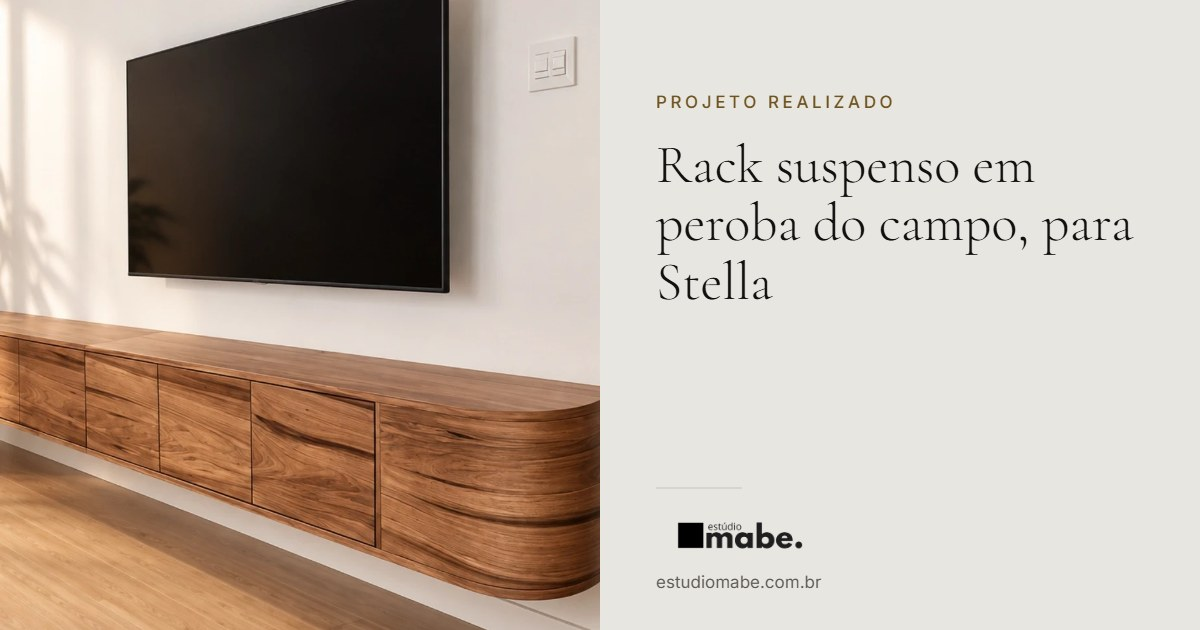
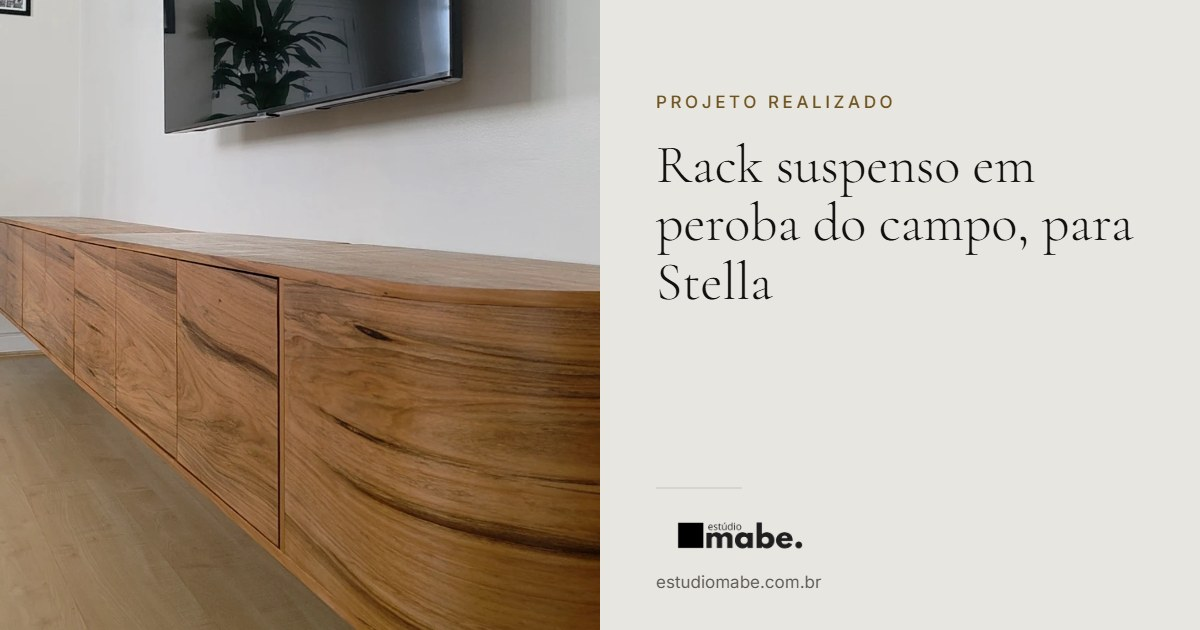
Tres fotos reais no projeto da Stella, e nova ordem
O rack do Jardim Botanico passa de uma para quatro fotos. A ordem mudou:
a capa agora e a foto real da curva vista de perto, com o veio contornando
a dobra; depois vem o dedo abrindo a porta com ela ja entreaberta, a sala
inteira, e por ultimo a imagem editada.

Motivo da troca de capa: lado a lado, a peroba real e um mel amarelado
com veios escuros, enquanto na imagem editada ela aparece mais escura e
avermelhada, puxando para nogueira. A capa e o cartao de compartilhamento
sao a referencia que o proximo cliente usa para pedir uma peca igual, e
por isso passam a ser a foto sem edicao.

Fica pendente de decisao do Mateus tirar a imagem editada da galeria:
mostrar a mesma peca em duas cores confunde, mas a imagem e dele.

A foto do toque e a aquisicao mais util: "portas sem puxador com abertura
ao toque" e uma frase que ninguem visualiza, e a foto resolve.

As fotos novas tem 1080x1920 e foram reduzidas para 924 px, nao ampliadas.
Cartao regerado a partir da capa nova e 22 paginas de compartilhamento
atualizadas.

recortar-foto.html passa a aceitar o arquivo de origem pelo endereco
(?de=_foto1.jpg), para dar conta de projetos com varias fotos sem renomear
arquivo a cada passada.

Conferido em 375 px, sem rolagem horizontal. JavaScript, CSS e dados
estruturados validos, console limpo.

diff --git a/recortar-foto.html b/recortar-foto.html
@@ -12,10 +12,14 @@
   4. confira a moldura amarela na miniatura e o resultado ao lado
 
   Parametros do endereco (todos opcionais, em fracao da imagem):
+     de    arquivo de origem na raiz          (padrao: _entrada.jpg)
      nome  nome do arquivo final, sem extensao (precisa comecar com trabalho-)
      x     canto esquerdo do recorte          (0 = colado na esquerda)
      y     topo do recorte                    (0 = colado no topo)
      l     largura do recorte                 (1 = largura inteira)
+
+  Com varias fotos do mesmo projeto, use "de" e "nome" juntos:
+     ?de=_foto1.jpg&nome=trabalho-ALGO-1&y=0.28
 -->
 <style>
   body { font-family: system-ui, sans-serif; background: #222; color: #eee; padding: 20px; }
@@ -28,7 +32,7 @@
 </style>
 <div id="log">carregando…</div>
 <div class="lado">
-  <div id="guia"><img id="fonte" src="/_entrada.jpg" alt=""><div id="moldura"></div></div>
+  <div id="guia"><img id="fonte" alt=""><div id="moldura"></div></div>
   <canvas id="saida"></canvas>
 </div>
 
@@ -40,6 +44,7 @@ const CAIXA = {
   largura: parseFloat(p.get('l') ?? '1')
 };
 const DESTINO = (p.get('nome') || 'trabalho-sem-nome-1') + '.webp';
+const ORIGEM = p.get('de') || '_entrada.jpg';
 const LARG = 924, ALT = 1155;
 
 const L = document.getElementById('log');
@@ -77,5 +82,6 @@ img.onload = async () => {
   const r = await fetch('/salvar', { method: 'POST', body: JSON.stringify({ nome: DESTINO, dados }) });
   diz((r.ok ? 'ok    ' : 'FALHA ') + DESTINO + '   ' + LARG + 'x' + ALT + '   ' + Math.round(dados.length * 0.75 / 1024) + ' kB');
 };
-img.onerror = () => diz('ERRO: nao achei /_entrada.jpg na raiz do projeto');
+img.onerror = () => diz('ERRO: nao achei /' + ORIGEM + ' na raiz do projeto');
+img.src = '/' + ORIGEM;
 </script>

diff --git a/en/peca/casa-dada/index.html b/en/peca/casa-dada/index.html
@@ -3170,7 +3170,10 @@ const trabalhos = [
     servico: 'Rack suspenso em folhas naturais de peroba do campo, com acabamento em cera de abelha, portas com abertura ao toque e extremidade curva',
     descricao: 'Um móvel que toca o chão divide a sala em duas. Este não toca: fica suspenso na parede, e o piso corre inteiro por baixo dele, sem interrupção. As folhas são de peroba do campo, naturais, escolhidas para que o desenho da madeira atravesse as portas sem emenda à vista, como se a peça tivesse saído de um bloco só. Não há puxador em lugar nenhum: a porta abre ao toque, e nada quebra a superfície. O acabamento é em cera de abelha, que não forma película por cima da madeira: a mão encosta e encontra o próprio material, com a maciez que só a cera deixa. E onde a maioria dos racks termina numa quina, este faz uma curva e segue a parede, abraçando o ambiente em vez de cortá-lo.',
     data: '2026-09-12',
-    imgs: ['/images/trabalho-rack-peroba-jardim-botanico-1.webp']
+    imgs: ['/images/trabalho-rack-peroba-jardim-botanico-1.webp',
+           '/images/trabalho-rack-peroba-jardim-botanico-2.webp',
+           '/images/trabalho-rack-peroba-jardim-botanico-3.webp',
+           '/images/trabalho-rack-peroba-jardim-botanico-4.webp']
   },
   {
     slug: 'cama-tauari-gavea',

diff --git a/en/peca/mesa-de-cabeceira-botafogo/index.html b/en/peca/mesa-de-cabeceira-botafogo/index.html
@@ -3170,7 +3170,10 @@ const trabalhos = [
     servico: 'Rack suspenso em folhas naturais de peroba do campo, com acabamento em cera de abelha, portas com abertura ao toque e extremidade curva',
     descricao: 'Um móvel que toca o chão divide a sala em duas. Este não toca: fica suspenso na parede, e o piso corre inteiro por baixo dele, sem interrupção. As folhas são de peroba do campo, naturais, escolhidas para que o desenho da madeira atravesse as portas sem emenda à vista, como se a peça tivesse saído de um bloco só. Não há puxador em lugar nenhum: a porta abre ao toque, e nada quebra a superfície. O acabamento é em cera de abelha, que não forma película por cima da madeira: a mão encosta e encontra o próprio material, com a maciez que só a cera deixa. E onde a maioria dos racks termina numa quina, este faz uma curva e segue a parede, abraçando o ambiente em vez de cortá-lo.',
     data: '2026-09-12',
-    imgs: ['/images/trabalho-rack-peroba-jardim-botanico-1.webp']
+    imgs: ['/images/trabalho-rack-peroba-jardim-botanico-1.webp',
+           '/images/trabalho-rack-peroba-jardim-botanico-2.webp',
+           '/images/trabalho-rack-peroba-jardim-botanico-3.webp',
+           '/images/trabalho-rack-peroba-jardim-botanico-4.webp']
   },
   {
     slug: 'cama-tauari-gavea',

diff --git a/en/peca/rack-urca/index.html b/en/peca/rack-urca/index.html
@@ -3170,7 +3170,10 @@ const trabalhos = [
     servico: 'Rack suspenso em folhas naturais de peroba do campo, com acabamento em cera de abelha, portas com abertura ao toque e extremidade curva',
     descricao: 'Um móvel que toca o chão divide a sala em duas. Este não toca: fica suspenso na parede, e o piso corre inteiro por baixo dele, sem interrupção. As folhas são de peroba do campo, naturais, escolhidas para que o desenho da madeira atravesse as portas sem emenda à vista, como se a peça tivesse saído de um bloco só. Não há puxador em lugar nenhum: a porta abre ao toque, e nada quebra a superfície. O acabamento é em cera de abelha, que não forma película por cima da madeira: a mão encosta e encontra o próprio material, com a maciez que só a cera deixa. E onde a maioria dos racks termina numa quina, este faz uma curva e segue a parede, abraçando o ambiente em vez de cortá-lo.',
     data: '2026-09-12',
-    imgs: ['/images/trabalho-rack-peroba-jardim-botanico-1.webp']
+    imgs: ['/images/trabalho-rack-peroba-jardim-botanico-1.webp',
+           '/images/trabalho-rack-peroba-jardim-botanico-2.webp',
+           '/images/trabalho-rack-peroba-jardim-botanico-3.webp',
+           '/images/trabalho-rack-peroba-jardim-botanico-4.webp']
   },
   {
     slug: 'cama-tauari-gavea',

diff --git a/en/projeto/banco-meditacao-seiza/index.html b/en/projeto/banco-meditacao-seiza/index.html
@@ -3170,7 +3170,10 @@ const trabalhos = [
     servico: 'Rack suspenso em folhas naturais de peroba do campo, com acabamento em cera de abelha, portas com abertura ao toque e extremidade curva',
     descricao: 'Um móvel que toca o chão divide a sala em duas. Este não toca: fica suspenso na parede, e o piso corre inteiro por baixo dele, sem interrupção. As folhas são de peroba do campo, naturais, escolhidas para que o desenho da madeira atravesse as portas sem emenda à vista, como se a peça tivesse saído de um bloco só. Não há puxador em lugar nenhum: a porta abre ao toque, e nada quebra a superfície. O acabamento é em cera de abelha, que não forma película por cima da madeira: a mão encosta e encontra o próprio material, com a maciez que só a cera deixa. E onde a maioria dos racks termina numa quina, este faz uma curva e segue a parede, abraçando o ambiente em vez de cortá-lo.',
     data: '2026-09-12',
-    imgs: ['/images/trabalho-rack-peroba-jardim-botanico-1.webp']
+    imgs: ['/images/trabalho-rack-peroba-jardim-botanico-1.webp',
+           '/images/trabalho-rack-peroba-jardim-botanico-2.webp',
+           '/images/trabalho-rack-peroba-jardim-botanico-3.webp',
+           '/images/trabalho-rack-peroba-jardim-botanico-4.webp']
   },
   {
     slug: 'cama-tauari-gavea',

diff --git a/en/projeto/cama-tauari-gavea/index.html b/en/projeto/cama-tauari-gavea/index.html
@@ -3170,7 +3170,10 @@ const trabalhos = [
     servico: 'Rack suspenso em folhas naturais de peroba do campo, com acabamento em cera de abelha, portas com abertura ao toque e extremidade curva',
     descricao: 'Um móvel que toca o chão divide a sala em duas. Este não toca: fica suspenso na parede, e o piso corre inteiro por baixo dele, sem interrupção. As folhas são de peroba do campo, naturais, escolhidas para que o desenho da madeira atravesse as portas sem emenda à vista, como se a peça tivesse saído de um bloco só. Não há puxador em lugar nenhum: a porta abre ao toque, e nada quebra a superfície. O acabamento é em cera de abelha, que não forma película por cima da madeira: a mão encosta e encontra o próprio material, com a maciez que só a cera deixa. E onde a maioria dos racks termina numa quina, este faz uma curva e segue a parede, abraçando o ambiente em vez de cortá-lo.',
     data: '2026-09-12',
-    imgs: ['/images/trabalho-rack-peroba-jardim-botanico-1.webp']
+    imgs: ['/images/trabalho-rack-peroba-jardim-botanico-1.webp',
+           '/images/trabalho-rack-peroba-jardim-botanico-2.webp',
+           '/images/trabalho-rack-peroba-jardim-botanico-3.webp',
+           '/images/trabalho-rack-peroba-jardim-botanico-4.webp']
   },
   {
     slug: 'cama-tauari-gavea',

diff --git a/en/projeto/gaveteiro-cedrinho-meia-cana/index.html b/en/projeto/gaveteiro-cedrinho-meia-cana/index.html
@@ -3170,7 +3170,10 @@ const trabalhos = [
     servico: 'Rack suspenso em folhas naturais de peroba do campo, com acabamento em cera de abelha, portas com abertura ao toque e extremidade curva',
     descricao: 'Um móvel que toca o chão divide a sala em duas. Este não toca: fica suspenso na parede, e o piso corre inteiro por baixo dele, sem interrupção. As folhas são de peroba do campo, naturais, escolhidas para que o desenho da madeira atravesse as portas sem emenda à vista, como se a peça tivesse saído de um bloco só. Não há puxador em lugar nenhum: a porta abre ao toque, e nada quebra a superfície. O acabamento é em cera de abelha, que não forma película por cima da madeira: a mão encosta e encontra o próprio material, com a maciez que só a cera deixa. E onde a maioria dos racks termina numa quina, este faz uma curva e segue a parede, abraçando o ambiente em vez de cortá-lo.',
     data: '2026-09-12',
-    imgs: ['/images/trabalho-rack-peroba-jardim-botanico-1.webp']
+    imgs: ['/images/trabalho-rack-peroba-jardim-botanico-1.webp',
+           '/images/trabalho-rack-peroba-jardim-botanico-2.webp',
+           '/images/trabalho-rack-peroba-jardim-botanico-3.webp',
+           '/images/trabalho-rack-peroba-jardim-botanico-4.webp']
   },
   {
     slug: 'cama-tauari-gavea',

diff --git a/en/projeto/mesa-cabeceira-tauari-palha/index.html b/en/projeto/mesa-cabeceira-tauari-palha/index.html
@@ -3170,7 +3170,10 @@ const trabalhos = [
     servico: 'Rack suspenso em folhas naturais de peroba do campo, com acabamento em cera de abelha, portas com abertura ao toque e extremidade curva',
     descricao: 'Um móvel que toca o chão divide a sala em duas. Este não toca: fica suspenso na parede, e o piso corre inteiro por baixo dele, sem interrupção. As folhas são de peroba do campo, naturais, escolhidas para que o desenho da madeira atravesse as portas sem emenda à vista, como se a peça tivesse saído de um bloco só. Não há puxador em lugar nenhum: a porta abre ao toque, e nada quebra a superfície. O acabamento é em cera de abelha, que não forma película por cima da madeira: a mão encosta e encontra o próprio material, com a maciez que só a cera deixa. E onde a maioria dos racks termina numa quina, este faz uma curva e segue a parede, abraçando o ambiente em vez de cortá-lo.',
     data: '2026-09-12',
-    imgs: ['/images/trabalho-rack-peroba-jardim-botanico-1.webp']
+    imgs: ['/images/trabalho-rack-peroba-jardim-botanico-1.webp',
+           '/images/trabalho-rack-peroba-jardim-botanico-2.webp',
+           '/images/trabalho-rack-peroba-jardim-botanico-3.webp',
+           '/images/trabalho-rack-peroba-jardim-botanico-4.webp']
   },
   {
     slug: 'cama-tauari-gavea',

diff --git a/en/projeto/mesa-cabeceira-tauari/index.html b/en/projeto/mesa-cabeceira-tauari/index.html
@@ -3170,7 +3170,10 @@ const trabalhos = [
     servico: 'Rack suspenso em folhas naturais de peroba do campo, com acabamento em cera de abelha, portas com abertura ao toque e extremidade curva',
     descricao: 'Um móvel que toca o chão divide a sala em duas. Este não toca: fica suspenso na parede, e o piso corre inteiro por baixo dele, sem interrupção. As folhas são de peroba do campo, naturais, escolhidas para que o desenho da madeira atravesse as portas sem emenda à vista, como se a peça tivesse saído de um bloco só. Não há puxador em lugar nenhum: a porta abre ao toque, e nada quebra a superfície. O acabamento é em cera de abelha, que não forma película por cima da madeira: a mão encosta e encontra o próprio material, com a maciez que só a cera deixa. E onde a maioria dos racks termina numa quina, este faz uma curva e segue a parede, abraçando o ambiente em vez de cortá-lo.',
     data: '2026-09-12',
-    imgs: ['/images/trabalho-rack-peroba-jardim-botanico-1.webp']
+    imgs: ['/images/trabalho-rack-peroba-jardim-botanico-1.webp',
+           '/images/trabalho-rack-peroba-jardim-botanico-2.webp',
+           '/images/trabalho-rack-peroba-jardim-botanico-3.webp',
+           '/images/trabalho-rack-peroba-jardim-botanico-4.webp']
   },
   {
     slug: 'cama-tauari-gavea',

diff --git a/en/projeto/mesa-estudio-musical-cumaru/index.html b/en/projeto/mesa-estudio-musical-cumaru/index.html
@@ -3170,7 +3170,10 @@ const trabalhos = [
     servico: 'Rack suspenso em folhas naturais de peroba do campo, com acabamento em cera de abelha, portas com abertura ao toque e extremidade curva',
     descricao: 'Um móvel que toca o chão divide a sala em duas. Este não toca: fica suspenso na parede, e o piso corre inteiro por baixo dele, sem interrupção. As folhas são de peroba do campo, naturais, escolhidas para que o desenho da madeira atravesse as portas sem emenda à vista, como se a peça tivesse saído de um bloco só. Não há puxador em lugar nenhum: a porta abre ao toque, e nada quebra a superfície. O acabamento é em cera de abelha, que não forma película por cima da madeira: a mão encosta e encontra o próprio material, com a maciez que só a cera deixa. E onde a maioria dos racks termina numa quina, este faz uma curva e segue a parede, abraçando o ambiente em vez de cortá-lo.',
     data: '2026-09-12',
-    imgs: ['/images/trabalho-rack-peroba-jardim-botanico-1.webp']
+    imgs: ['/images/trabalho-rack-peroba-jardim-botanico-1.webp',
+           '/images/trabalho-rack-peroba-jardim-botanico-2.webp',
+           '/images/trabalho-rack-peroba-jardim-botanico-3.webp',
+           '/images/trabalho-rack-peroba-jardim-botanico-4.webp']
   },
   {
     slug: 'cama-tauari-gavea',

diff --git a/en/projeto/rack-escrivaninha-freijo-urca/index.html b/en/projeto/rack-escrivaninha-freijo-urca/index.html
@@ -3170,7 +3170,10 @@ const trabalhos = [
     servico: 'Rack suspenso em folhas naturais de peroba do campo, com acabamento em cera de abelha, portas com abertura ao toque e extremidade curva',
     descricao: 'Um móvel que toca o chão divide a sala em duas. Este não toca: fica suspenso na parede, e o piso corre inteiro por baixo dele, sem interrupção. As folhas são de peroba do campo, naturais, escolhidas para que o desenho da madeira atravesse as portas sem emenda à vista, como se a peça tivesse saído de um bloco só. Não há puxador em lugar nenhum: a porta abre ao toque, e nada quebra a superfície. O acabamento é em cera de abelha, que não forma película por cima da madeira: a mão encosta e encontra o próprio material, com a maciez que só a cera deixa. E onde a maioria dos racks termina numa quina, este faz uma curva e segue a parede, abraçando o ambiente em vez de cortá-lo.',
     data: '2026-09-12',
-    imgs: ['/images/trabalho-rack-peroba-jardim-botanico-1.webp']
+    imgs: ['/images/trabalho-rack-peroba-jardim-botanico-1.webp',
+           '/images/trabalho-rack-peroba-jardim-botanico-2.webp',
+           '/images/trabalho-rack-peroba-jardim-botanico-3.webp',
+           '/images/trabalho-rack-peroba-jardim-botanico-4.webp']
   },
   {
     slug: 'cama-tauari-gavea',

diff --git a/en/projeto/rack-peroba-jardim-botanico/index.html b/en/projeto/rack-peroba-jardim-botanico/index.html
@@ -3170,7 +3170,10 @@ const trabalhos = [
     servico: 'Rack suspenso em folhas naturais de peroba do campo, com acabamento em cera de abelha, portas com abertura ao toque e extremidade curva',
     descricao: 'Um móvel que toca o chão divide a sala em duas. Este não toca: fica suspenso na parede, e o piso corre inteiro por baixo dele, sem interrupção. As folhas são de peroba do campo, naturais, escolhidas para que o desenho da madeira atravesse as portas sem emenda à vista, como se a peça tivesse saído de um bloco só. Não há puxador em lugar nenhum: a porta abre ao toque, e nada quebra a superfície. O acabamento é em cera de abelha, que não forma película por cima da madeira: a mão encosta e encontra o próprio material, com a maciez que só a cera deixa. E onde a maioria dos racks termina numa quina, este faz uma curva e segue a parede, abraçando o ambiente em vez de cortá-lo.',
     data: '2026-09-12',
-    imgs: ['/images/trabalho-rack-peroba-jardim-botanico-1.webp']
+    imgs: ['/images/trabalho-rack-peroba-jardim-botanico-1.webp',
+           '/images/trabalho-rack-peroba-jardim-botanico-2.webp',
+           '/images/trabalho-rack-peroba-jardim-botanico-3.webp',
+           '/images/trabalho-rack-peroba-jardim-botanico-4.webp']
   },
   {
     slug: 'cama-tauari-gavea',
